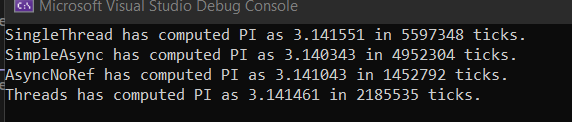
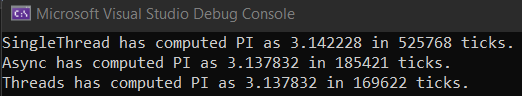
Almost done writing first multithreading blogpost

diff --git a/_drafts/Multithreading-in-Cplusplus-Approximating-Pi.md b/_drafts/Multithreading-in-Cplusplus-Approximating-Pi.md
@@ -5,9 +5,12 @@ layout: post
 categories: blogpost
 permalink: /:categories/:title
 ---
+
+TODO: relire, corriger et formatter
+
 <br>
 <img align="center" width="675" height="488" src="{{site.assets_dir}}/Blogposts/MultithreadingInCplusplusApproximatingPi/catYarn.jpg">
-<em>["She didn't anticipate the yarn fighting back"](https://www.reddit.com/r/aww/comments/8ush6f/she_didnt_anticipate_the_yarn_fighting_back/)
+<em>["She didn't anticipate the yarn fighting back"](https://www.reddit.com/r/aww/comments/8ush6f/she_didnt_anticipate_the_yarn_fighting_back/)</em>
 <br>
 <br>
 Hi, I'm Oleg, I'm a freshly graduated Audio Games Programming Bachelor and while reviewing C++ multithreading and multiprocessing,
@@ -39,6 +42,9 @@ Although not all necessarily mentioned in the text, the following learning resou
 making of this blogpost and I encourage you to read them yourself:
 - [Estimating the value of Pi using Monte Carlo, GeeksforGeeks, updated on July 2022](https://www.geeksforgeeks.org/estimating-value-pi-using-monte-carlo/)
 - [CppCon 2018 Jefferson Amstutz Compute More in Less Time Using C++ Simd Wrapper Libraries](https://youtu.be/8khWb-Bhhvs)
+- My personal bible: ["Game Engine Architecture" by Jason Gregory](https://www.gameenginebook.com/), I cannot recommend this book highly enough, if there's any topic you'll ever encounter as a Game Programmer, you'll most probably find inside a very concise
+explanation of the subject as well as references to other resources where you'll find more information on the subject.
+- [C++ Concurrency, Part 4 by Bartosz Milewski](https://youtu.be/o0pCft99K74?list=PL1835A90FC78FF8BE)
 
 Finally, this blogpost uses various images, the sources of which have been marked below them.
 Care has been taken to use the images in accordance with the creator's wishes whenever such information
@@ -78,8 +84,7 @@ open up your task manager:
 
 <img align="center" width="674" height="620" src="{{site.assets_dir}}/Blogposts/MultithreadingInCplusplusApproximatingPi/taskManager.png">
 <br>
-This is because the OS is using what is called [timeslicing](https://en.wikipedia.org/wiki/Preemption_(computing)) to let every program a little bit
-of time on the CPU to execute partially before letting another program run.
+This is because the OS is using what is called [timeslicing and preemptive scheduling](https://en.wikipedia.org/wiki/Preemption_(computing)) to let every program a little bit of time on the CPU to execute partially before letting another program run.
 
 <h2>
   Multiprocessing
@@ -112,7 +117,7 @@ General-purpose GPU computing however is well beyond the scope of this blogpost.
 <em>[Die of the Nividia's GT200 GPU](https://www.realworldtech.com/gt200/11/)
 
 <h2>
-  Concurrency vs. Parallelism
+  Concurrency vs. Parallelism vs. Multi-tasking
 </h2>
 
 <img align="center" width="680" height="333" src="{{site.assets_dir}}/Blogposts/MultithreadingInCplusplusApproximatingPi/parallelismVsConcurrency.jpg">
@@ -121,17 +126,25 @@ General-purpose GPU computing however is well beyond the scope of this blogpost.
 Concurrency and parallelism can sound like synonyms but they are not. Rob Pike, the creator of the [Go programming language](https://en.wikipedia.org/wiki/Go_(programming_language))
 described the concepts very elegantly in [one of his talks](https://go.dev/talks/2012/waza.slide#8):
 <p><em>
-  "Concurrency is about dealing with lots of things at once. Parallelism is about doing lots of things once."<br>
+  "Concurrency is about <strong>dealing</strong> with lots of things at once. Parallelism is about doing lots of things, <strong>once</strong>."<br>
   </em></p>
 
 To give a more concrete and relatable example, concurrency is like cooking a stew: you might start by cutting some beef
 and while it's sizzling in a pan pour some water in a pot and set it to boil. While that's going on, you'd chop up
-some vegetables and at some point throw all of that good stuff in the boiling water and maybe add some flour.
+some vegetables and at some point throw all of that good stuff in the boiling water and maybe add some flour to thicken up
+the stew before adding in the beef.
 You might then after a while put the pot in the oven for a few hours and in the meantime you'd make some potatoes and some homemade sauce.
 This is concurrency: doing lots of things at once.
 
 Parallelism is much simpler, it's like chopping up some scallions: you'd take a whole bunch of them and chop them
 all up at once, each motion of the knife cutting the whole bunch at once.
+
+Multi-tasking is somewhat similar to concurrency in that, as it's name indicates, it involves doing multiple things at once
+but unlike concurrency, it does not involve sharing any resources with the other things being done at the same time:
+in our analogy, it's like listening to music while cooking, whether or not the pot of water is boiling or not has no impact on the
+music. If you didn't water in the pot however, it doesn't make sense to add in our vegetables,
+so there's a dependancy there.
+I highly recommend [Jason Gregory's "Game Engine Architecture"](https://www.gameenginebook.com/) book which has a large chapter dedicated to concurrency, multithreading and parallelism.
 
 -----
 
@@ -167,7 +180,7 @@ If we then simplify the expression, we end up with this equation:
 Area of circle / Area of square = PI / 4
 ```
 
-<strong>TODO: insert image of unit circle and square</strong>
+<img align="center" width="512" height="512" src="{{site.assets_dir}}/Blogposts/MultithreadingInCplusplusApproximatingPi/unitCircleAndSquare.png">
 
 Since we're generating A LOT of points, as the number of random points grows,
 we can approximate the above equation instead with the following one:
@@ -340,7 +353,7 @@ When we'll start kicking off (meaning starting) new threads in the following fun
 runs when! I just want to point out that for the sake of lisibility of this blogpost, I've set my NR_OF_WORKERS to 4 instead of the 14 my machine is capable of as I've advised before.
 
 <h2>
-  SimpleAsync()
+  Async()
 </h2>
 
 Since we know that approximating PI using the Monte Carlo method is an embarassingly parallel problem, let's try to make a version of our above function that splits
@@ -365,11 +378,11 @@ instead, by value. The subroutine should return the number of points inside the 
 
 All of this is already written for you, your task is to simply re-implement the PI approximating algorithm, but this time only process 1/NR_OF_WORKERS'th of the total workload.
 Spoilers, this is how you do it:
-<img align="center" width="442" height="297" src="{{site.assets_dir}}/Blogposts/MultithreadingInCplusplusApproximatingPi/simpleAsync1.PNG">
+<img align="center" width="761" height="292" src="{{site.assets_dir}}/Blogposts/MultithreadingInCplusplusApproximatingPi/simpleAsync1.PNG">
 
-The only thing we've changed is that instead of processing the whole <em>iterations</em> number of iterations, it's only processing 1/NR_OF_WORKERS'th of it. Since <em>e</em> is
-captured by reference, the numbers generated for each subroutine <strong>should</strong> be different (but if you're aware of memory sharing concerns, you can already see why this
-approach is problematic, but that's for the next blogpost).
+The only thing we've changed is that instead of processing the whole <em>iterations</em> number of iterations, it's only processing 1/NR_OF_WORKERS'th of it and
+we are now [seeding](https://en.cppreference.com/w/cpp/numeric/random/mersenne_twister_engine/mersenne_twister_engine) the random number generator to avoid all subroutines generating the same exact numbers, effectively making our PI
+approximation NR_OF_WORKERS times less precise.
 
 Now that we've defined what our worker threads should be doing, let's kick them off so that they actually execute the code we've written. It's important to note that if you're launching
 an std::async task with the std::launch::async argument, the destructor of the returned std::future becomes a blocking
@@ -382,8 +395,79 @@ Now that we've kicked these tasks off, let's wait for them to finish executing a
 is a blocking operation that only returns once the subroutine has computed a valid result.
 <img align="center" width="665" height="178" src="{{site.assets_dir}}/Blogposts/MultithreadingInCplusplusApproximatingPi/simpleAsync3.PNG">
 
-Good, let's launch our program and see how it performs... uh oh:
-<img align="center" width="665" height="178" src="{{site.assets_dir}}/Blogposts/MultithreadingInCplusplusApproximatingPi/simpleAsync3.PNG">
+Good, let's launch our program and see how it performs... looking good:
+<img align="center" width="725" height="112" src="{{site.assets_dir}}/Blogposts/MultithreadingInCplusplusApproximatingPi/simpleAsync4.png">
 
+We can see that, as expected, the OS has kicked off these tasks on separate threads, but again, that is not guaranteed when using std::async.
+To demonstrate this, I've forced the OS's hand by splitting the workload into twice the number of logical cores my CPU has, and as expected,
+the OS has decided to execute two subroutines per thread instead of one:
+<img align="center" width="534" height="124" src="{{site.assets_dir}}/Blogposts/MultithreadingInCplusplusApproximatingPi/simpleAsync5.png">
 
-<strong>TODO: image of a well behaved cat besides some yarn</strong>
+This is usually the desired behaviour since the OS knows best how to distribute the computing workload the machine is experiencing
+at any given time. But what if we want to make sure that one thread is only responsible for one thing, as would be the case for instance in
+a multithreaded game engine, where it is typical to have a graphical renderer thread or an IO thread or an audio thread, all of them responsible for one
+specific task only? For nerds, this is an instance of [task parallelism](https://en.wikipedia.org/wiki/Task_parallelism) by the way as opposed to
+[data parallelism](https://en.wikipedia.org/wiki/Data_parallelism) which is what we're doing with approximating PI.
+
+<h2>
+  Thread()
+</h2>
+<img align="center" width="768" height="432" src="{{site.assets_dir}}/Blogposts/MultithreadingInCplusplusApproximatingPi/yarn.jpg">
+<em>[Designed by Freepik](https://www.freepik.com/free-photo/multiple-colored-partially-unwounded-balls-yarn-white-paper-top-view_13854421.htm#query=knitting%20yarn&position=6&from_view=keyword)
+
+To do so, we need to go just a little bit lower and start using std::thread's: this C++ facility is used to
+represent a single thread of execution of a program and when a task is assigned to it, it won't share
+it's execution time with any other tasks, unlike an std::async.
+Note however that this DOES NOT map the thread to a CPU core! Trying to do so would involve fighting the OS'
+task scheduler and unless you're a senior OS software engineer (which you aren't since your reading this),
+you won't manage to outperform it.
+
+In game engines, std::thread's (or third-party equivalents of it) are usually used as part of so-called "worker thread pool",
+where the application, upon startup kicks off as many std::threads as there are logical cores and uses them in a
+more or less generic manner: adding more threads would only lead to the existing threads cannibalizing each other's
+time on the CPU and the only impact you'd see would be the cost added cost of [context switching](https://en.wikipedia.org/wiki/Context_switch) of running another thread. This is why I've instructed
+you to set NR_OF_WORKERS to the number of logical cores - 2.
+
+Implementing our algorithm using std::thread's is very similar to using std::async's, the only real difference is that
+you can't directly get a return value from std::thread's constructor like you can with std::async, you need to first
+construct a std::promise, get the std::future from it instead, then std::move it as an argument for the lambda:
+
+Other than that, everything is very similar besides having to call .join() or .detach() on the thread. The .join()
+is a blocking call that waits for the std::thread to execute and .detach() is used to let the std::thread execute
+unchecked so that the main thread may continue on with it's execution without waiting on it. Since std::future.get() is
+a blocking call that will wait for the return value of the subroutine to become valid anyways, in our case we can call
+either:
+
+<img align="center" width="790" height="553" src="{{site.assets_dir}}/Blogposts/MultithreadingInCplusplusApproximatingPi/threads0.png">
+
+This time, even if we set NR_OF_WORKERS to a number larger than the number of logical cores, we can see that each subroutine
+is running on it's own little thread. What is hidden away from us is that the OS uses timeslicing to run all of those
+little programs "simultaneously":
+
+<img align="center" width="538" height="895" src="{{site.assets_dir}}/Blogposts/MultithreadingInCplusplusApproximatingPi/threads1.png">
+
+And just for good measure, let's launch the application one last time in Release mode and look at the results with 14 worker
+threads in my case!:
+
+<img align="center" width="532" height="96" src="{{site.assets_dir}}/Blogposts/MultithreadingInCplusplusApproximatingPi/results0.png">
+<br>
+<img align="center" width="696" height="264" src="{{site.assets_dir}}/Blogposts/MultithreadingInCplusplusApproximatingPi/results1.png">
+
+-----
+
+<h1>
+  In Conclusion... this is only the beginning!
+</h1>
+
+This blogpost has barely scratched the surface of multithreading, concurrency, multi-tasking and parallelism.
+What we've done here has been an example of [data parallelism]() we've implemented using the concurrency facilities
+of C++ that have been designed to take advantage of a multiprocessing environment, so strictly speaking, we haven't even
+done anything concurrent since there was no sharing of common resources.
+
+The next blogpost will introduce the tricky challenge of sharing memory for concurrent problems, a topic not at all
+covered in this blogpost yet mandatory knowledge for any programmer.
+
+I hope this introduction to multithreading in C++ has been useful and stay curious!
+
+<img align="center" width="720" height="540" src="{{site.assets_dir}}/Blogposts/MultithreadingInCplusplusApproximatingPi/wellBehavedCats.jpg">
+<em>[Cats multithreading, taken from www.outsetmedia.com](https://www.outsetmedia.com/puzzles/cobble-hill/275-piece/ragdolls)
